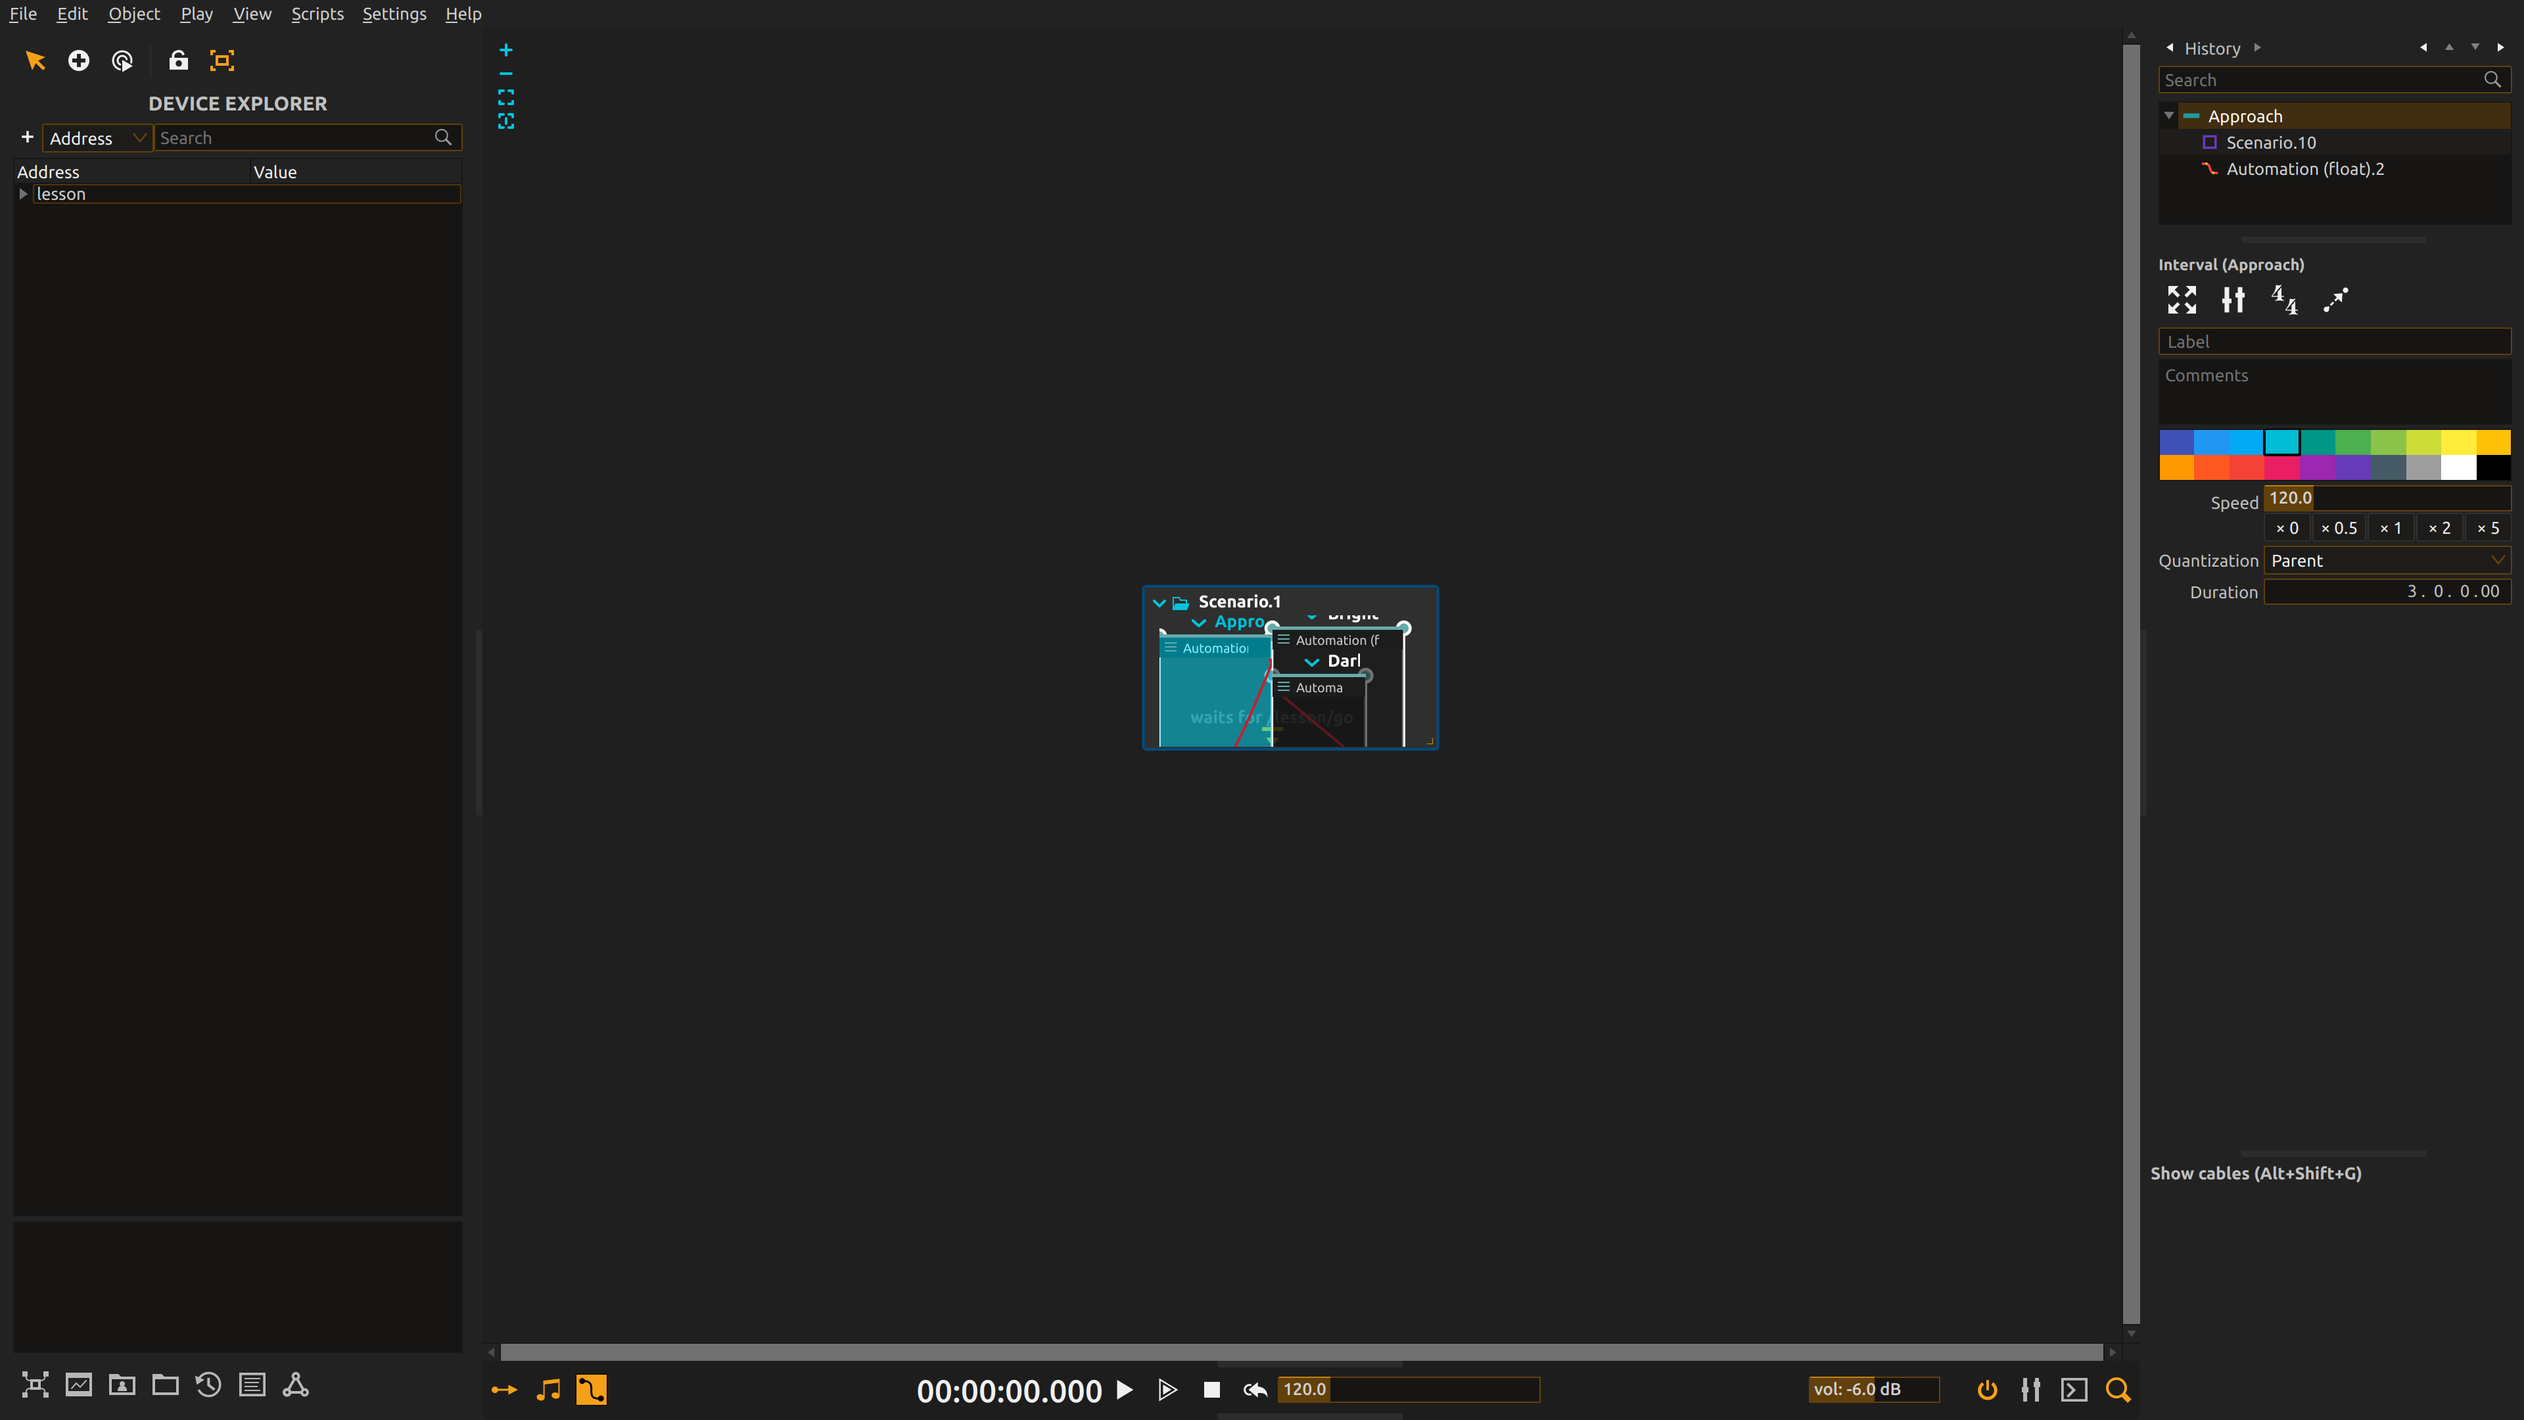
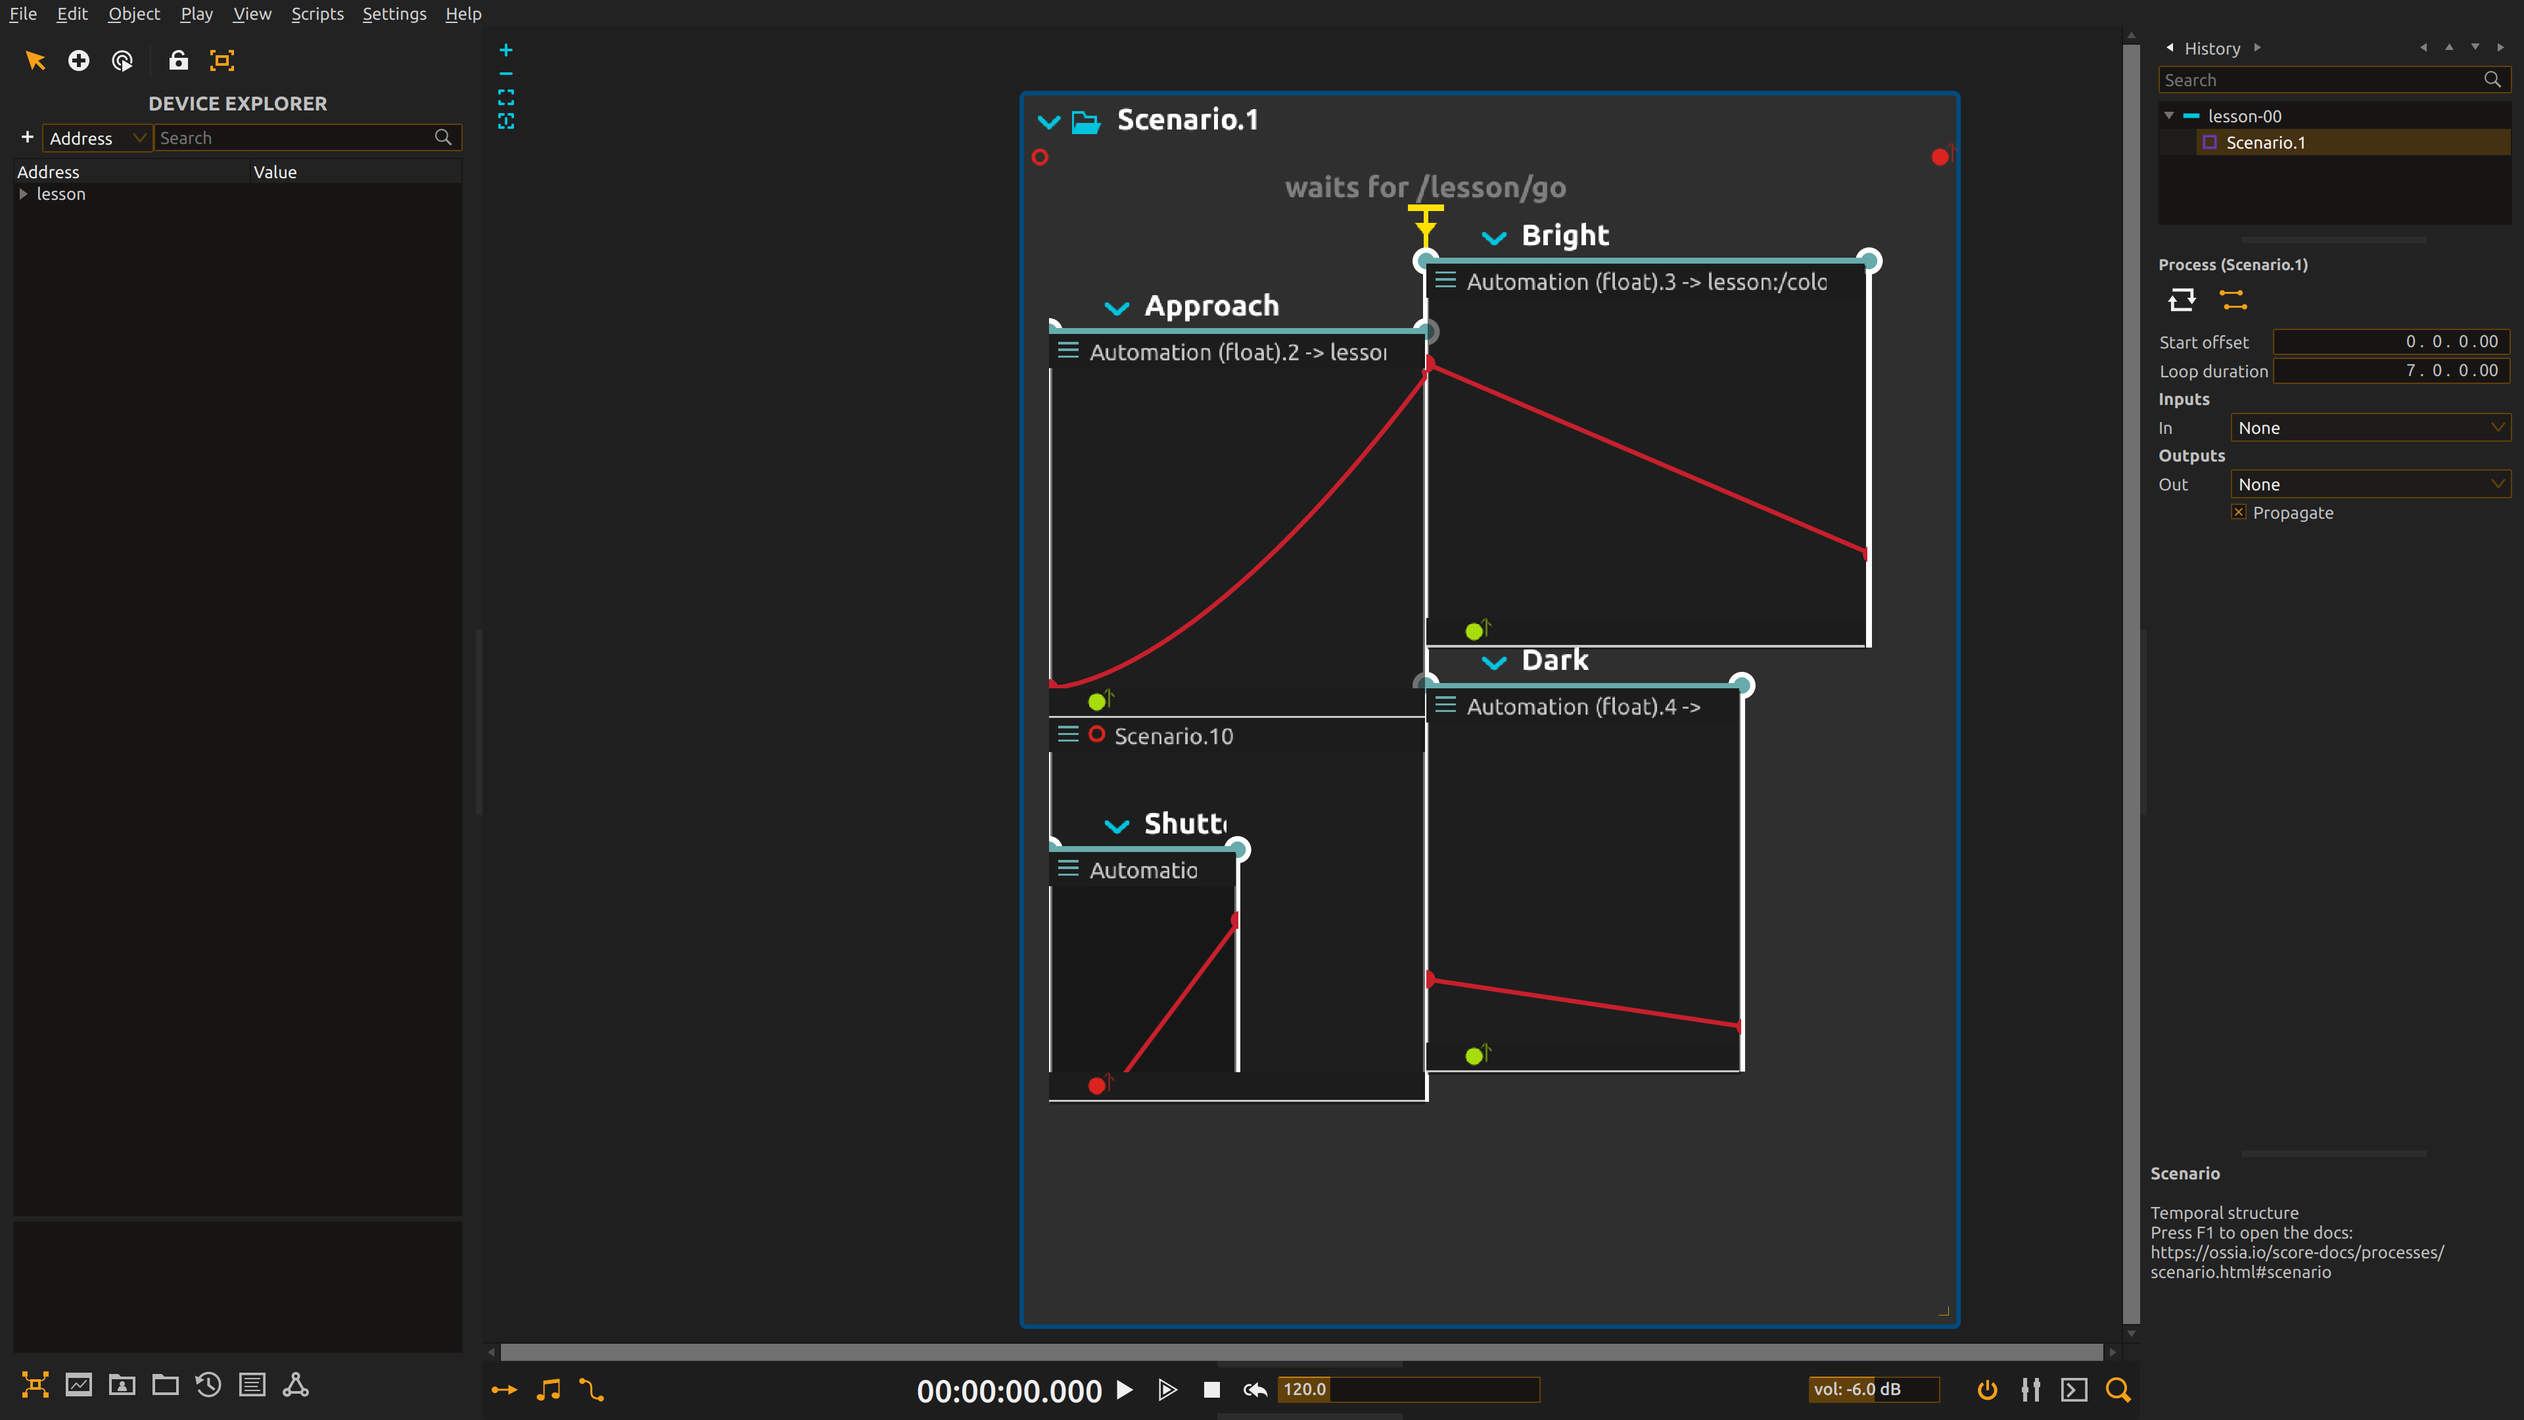
Re-shoot the four figures the crop audit could not fix by cropping, and confirm the Ctrl shortcuts
00-02 (nodal view): the graph is a single node whose labels score itself truncates.
Re-shot from lesson-00.score in nodal mode, zoomed with the slot's + icon, the node
resized by its bottom-right handle and dragged to the top of the editor, so every
nested interval (Approach, Bright, Dark, Scenario.10 with Shutter, the trigger) is
legible. lesson-00-nodal.score turned out unusable: its root has no visible slot.

00-01 (annotated score): re-shot as raw-00-01b.png with the timeline zoomed out
by Ctrl+wheel, so Bright and the root's flexible end are on screen; the seven
badges were remapped by a linear x transform. raw-00-01.png stays because
figures 02-01 and 08-01 crop it.

13-01 (conditioning pipeline): the four-process patch rebuilt on lesson-04.score
by chaining from the library, then the nodal slot's fit icon, which clears the
node titles from the slot's top edge. Badges now point at the titles.

31-01 (Faust editor): same procedure as August plus the fit icon; the editor
window, a top-level X window, moved and shrunk by win.configure to sit between
the node and the inspector; captured 0.8 s after play so the playhead shows.

Two findings worth the note in CLAUDE.md: the nodal view is the FIRST view-mode
button, not the third; and Settings > User interface > Show musical metrics had
been left on, which blanks the time ruler and swaps speed for tempo in the
transport. It is off again, the state most figures were shot in.
[…]

diff --git a/scripts/wheel.py b/scripts/wheel.py
@@ -1,0 +1,20 @@
+#!/usr/bin/env python3
+"""Send mouse-wheel steps at a point, optionally with Ctrl held: wheel.py X Y STEPS [--ctrl]
+STEPS > 0 scrolls down (button 5), < 0 scrolls up (button 4)."""
+import sys, time
+sys.path.insert(0, "/media/Storage/score-learn/scripts")
+import capture
+from Xlib import X
+from Xlib.ext import xtest
+x, y, steps = int(sys.argv[1]), int(sys.argv[2]), int(sys.argv[3])
+ctrl = "--ctrl" in sys.argv
+d = capture.dpy()
+capture.move(d, x, y); d.sync(); time.sleep(0.2)
+button = 5 if steps > 0 else 4
+if ctrl:
+    code = capture.keycode(d, "Control_L"); xtest.fake_input(d, X.KeyPress, code); d.sync(); time.sleep(0.1)
+for _ in range(abs(steps)):
+    xtest.fake_input(d, X.ButtonPress, button); xtest.fake_input(d, X.ButtonRelease, button); d.sync(); time.sleep(0.15)
+if ctrl:
+    xtest.fake_input(d, X.KeyRelease, code); d.sync()
+print(f"wheel {'down' if steps>0 else 'up'} x{abs(steps)} at {x},{y} ctrl={ctrl}")

diff --git a/scripts/ctrldrag.py b/scripts/ctrldrag.py
@@ -1,0 +1,18 @@
+#!/usr/bin/env python3
+"""Drag with Control held: ctrldrag.py X0 Y0 X1 Y1"""
+import sys, time
+sys.path.insert(0, "/media/Storage/score-learn/scripts")
+import capture
+from Xlib import X
+from Xlib.ext import xtest
+x0,y0,x1,y1 = map(int, sys.argv[1:5])
+d = capture.dpy()
+code = capture.keycode(d, "Control_L")
+xtest.fake_input(d, X.KeyPress, code); d.sync(); time.sleep(0.1)
+capture.move(d, x0, y0); d.sync(); time.sleep(0.2)
+xtest.fake_input(d, X.ButtonPress, 1); d.sync(); time.sleep(0.2)
+for i in range(1, 26):
+    capture.move(d, x0 + (x1-x0)*i//25, y0 + (y1-y0)*i//25); d.sync(); time.sleep(0.02)
+time.sleep(0.2); xtest.fake_input(d, X.ButtonRelease, 1); d.sync(); time.sleep(0.1)
+xtest.fake_input(d, X.KeyRelease, code); d.sync()
+print(f"ctrl-dragged {x0},{y0} -> {x1},{y1}")

diff --git a/CLAUDE.md b/CLAUDE.md
@@ -160,7 +160,20 @@ result — that adds the process *and connects it*. This produced figures 11-01 
   window; before that, the same command sometimes captured a dialog and sometimes did not.
 - **The editor reaches about x=3225** in the capture format, wider than the panels
   suggest. A crop stopping at 3020 silently loses a document's last state.
-- **The view-mode buttons** (temporal ↔ nodal) are at roughly x=767, 833, 900, y=2098.
+- **The view-mode buttons** are at roughly x=767, 833, 900, y=2112. The **first** one toggles
+  nodal mode; the third does not, although it highlights. A nested scenario draws as one small
+  node whose labels *score* itself truncates: the nodal slot's `+` icon (768,73) zooms, its
+  fourth icon fits, and the node's bottom-right handle resizes it so the nested intervals become
+  legible; drag it by its title to make room. The first click on an unfocused window only
+  focuses, so click twice.
+- **`Settings > User interface > Show musical metrics` blanks the time ruler** and swaps the
+  transport's speed field for a tempo. It was left on after figure 24-01 and cost a morning;
+  check it before capturing anything with a ruler.
+- **Ctrl+wheel zooms the timeline**, a few percent per step (`scripts/wheel.py X Y STEPS --ctrl`).
+  **`scripts/ctrldrag.py`** drags with Control held; on Linux `Ctrl+Drag` on an interval's end
+  handle scales its automation, a plain drag preserves it, so upstream's `Cmd` is `Ctrl` here.
+- **The script and Faust editors can be moved and resized from outside** with
+  `win.configure(x=, y=, width=, height=)` on the client window named `score`; mutter honours it.
 - **The start screen only appears when score is launched with no document argument**, and
   no menu reopens it.
 - **`pkill -f <pattern>` kills this shell** when the pattern matches the command line.

diff --git a/checks/FIGURES-PENDING.md b/checks/FIGURES-PENDING.md
@@ -207,7 +207,7 @@ Two format notes learned the hard way, both in the per-unit checks files:
 
 ---
 
-## Crop audit, 2026-09-16: re-shoot queue
+## Crop audit, 2026-09-16: re-shoot queue (all four done 2026-09-17)
 
 Every one of the 37 figures was viewed against its lesson text and its raw capture.
 Four specs were corrected in place and re-rendered (`15-01` badge 7 now points at the
@@ -222,7 +222,12 @@ capture, because the fault is in the raw and no crop can recover it:
 | `31-01` Faust | Faust node title clipped at the slot's top edge | same fit before shooting; the code can be typed with `typeinto.py` |
 | `00-01` annotated score | `Bright` runs past the editor's right edge | zoom the document out (or shorten `Bright`) so its end state is on screen |
 
-`00-02` carries a stopgap recrop until then, marked in `figures/00-02.json`.
+All four were re-shot on 2026-09-17 once the session was unlocked; each spec's `_comment` and the
+unit's `checks/` note record the exact procedure. Two findings from that session matter for every
+future capture: **Settings > User interface > Show musical metrics** had been left on (probably for
+figure 24-01), which blanks the time ruler and replaces the transport's speed field with a tempo;
+it is off again, which is the state most figures were shot in. And the nodal view is the **first**
+view-mode button, not the third; the third is a different mode that leaves the timeline in place.
 
 A re-shoot was attempted on 2026-09-16 and stopped at input: launch and capture
 worked, every click was swallowed, and `loginctl` reported the session locked. Three

diff --git a/checks/00-what-score-is.md b/checks/00-what-score-is.md
@@ -44,3 +44,5 @@ node graph and lays it out. That needed an unlocked session.
 - The *score* 3 feature list (GPU video pipeline, C++ live coding, tempo and musical metrics, hierarchical polyrhythms, generalised looping) comes from Celerier and Baltazar, *Networked Performances with Ossia Score*.
 
 - 2026-09-16 crop audit: Figure `00-02` recropped as a stopgap so the whole scenario node is in frame; the raw was captured unfitted, so a re-shoot with the nodal fit icon is queued (`scripts/reshoot_00_02.sh`). Figure `00-01`: `Bright` runs past the editor edge in the raw, so its end state is not visible; a re-shoot at a smaller zoom is queued.
+
+- 2026-09-17: both figures re-shot. `00-01` now comes from `raw-00-01b.png`, the same document zoomed out with Ctrl+wheel (`scripts/wheel.py`) so `Bright` and the root's flexible end are on screen; `raw-00-01.png` stays because 02-01 and 08-01 crop it. `00-02` was re-shot from `lesson-00.score`: nodal mode is the FIRST view-mode button (raw 768,2112; click twice, the first click only focuses), then the nodal slot's + icon (768,73) six times, then the scenario node's bottom-right handle dragged out and the node dragged to the top by its title until every nested interval was legible. `lesson-00-nodal.score` is not usable for this: its root has no visible slot.

diff --git a/HANDOVER.md b/HANDOVER.md
@@ -74,10 +74,11 @@ capstone rubric weights, the ffmpeg continuation bug in 25, a fisheye mapping er
 P6, a stale patch description in 32, and the `Cmd` shortcuts in 03 and 04).
 
 Every figure was viewed against its lesson and its raw. Four specs were corrected and
-re-rendered; four need a re-shoot and are listed at the end of
-`checks/FIGURES-PENDING.md`. The re-shoot attempt stopped at a locked session; the
-capture environment facts it produced are in `CLAUDE.md`, and `scripts/reshoot_00_02.sh`
-runs the first re-shoot as one command once the session is unlocked.
+re-rendered on the 16th; the four that needed a new capture (00-01, 00-02, 13-01, 31-01)
+were re-shot on the 17th once the session was unlocked, and every figure now shows what
+its lesson says it shows. The capture facts learned on the way (Wayland display and auth,
+the first view-mode button being nodal, the musical-metrics setting that blanks the ruler,
+moving editor windows by configure) are in `CLAUDE.md`.
 
 
 **The course text is finished.** All **47 units** are written and pass

diff --git a/checks/04-first-process.md b/checks/04-first-process.md
@@ -24,4 +24,4 @@ Anything marked pending needs synthetic input, which requires an unlocked sessio
 
 - The gestures and modifiers come from the reference page on writing automations. The Cmd+Drag and Cmd+Up bindings are stated there in macOS form; verify the Linux and Windows equivalents before the video is recorded.
 
-- 2026-09-16: `Cmd+↑` and `Cmd+Drag` were normalised to `Ctrl+…`, matching the other 57 shortcuts in the course and Qt's control modifier on Linux. Upstream writes Cmd. Confirm in the pinned build that Ctrl is the modifier here.
+- 2026-09-16: `Cmd+↑` and `Cmd+Drag` were normalised to `Ctrl+…`, matching the other 57 shortcuts in the course and Qt's control modifier on Linux. Upstream writes Cmd. Confirmed in the pinned build on 2026-09-17: the View menu lists Go to parent as Ctrl+Up, and a Ctrl+Drag on an interval's end handle scales the automation while a plain drag preserves its length.

diff --git a/checks/03-interface-and-transport.md b/checks/03-interface-and-transport.md
@@ -24,4 +24,4 @@ Anything marked pending needs synthetic input, which requires an unlocked sessio
 
 - The controls-and-shortcuts 2/5 rating, the lost-panels report, and the accidental-view-entry report all come from the SAT UI/UX study report.
 
-- 2026-09-16: `Cmd+↑` was normalised to `Ctrl+…`, matching the other 57 shortcuts in the course and Qt's control modifier on Linux. Upstream writes Cmd. Confirm in the pinned build that Ctrl is the modifier here.
+- 2026-09-16: `Cmd+↑` was normalised to `Ctrl+…`, matching the other 57 shortcuts in the course and Qt's control modifier on Linux. Upstream writes Cmd. Confirmed in the pinned build on 2026-09-17: the View menu lists Go to parent as Ctrl+Up, and a Ctrl+Drag on an interval's end handle scales the automation while a plain drag preserves its length.

diff --git a/checks/31-faust.md b/checks/31-faust.md
@@ -75,3 +75,5 @@ in `CLAUDE.md` and that cost most of the time on this figure:
    pressing compile.
 
 - 2026-09-16 crop audit: Figure `31-01`: the Faust node title is clipped at the nodal slot top edge in the raw; re-shoot queued in `checks/FIGURES-PENDING.md` (fit the graph before shooting).
+
+- 2026-09-17: `31-01` re-shot with the same procedure as 2026-08-12, plus the nodal slot's fit icon before shooting so the Faust node title is visible. The editor is a top-level X window named `score`; `win.configure(x=1830, y=300, width=1400, height=1450)` moved and shrank it so it sits between the node and the inspector, which the August capture achieved by hiding the left dock instead. The capture was taken 0.8 s after pressing play, since the excerpt ends within a few seconds and the transport rewinds to zero.

diff --git a/checks/13-mapping-and-scaling.md b/checks/13-mapping-and-scaling.md
@@ -33,3 +33,5 @@ Micromap, Multi-choice, Range Filter, Rate Limiter, Repetition Filter, Smooth.
 The smoothing object is named Exp Smoothing.
 
 - 2026-09-16 crop audit: Figure `13-01`: node titles are clipped at the nodal slot top edge in the raw itself, so no crop recovers them; re-shoot queued in `checks/FIGURES-PENDING.md` (rebuild the patch, fit the graph, then shoot).
+
+- 2026-09-17: `13-01` re-shot. Patch rebuilt on `lesson-04.score`: click the automation's slot header to select it, type each name into the process library search with `typeinto.py`, double-click the single result (Calibrator, Range Filter, Mapping curve, Exp Smoothing; each new process is selected, so the next chains after it), then the nodal slot's fourth small icon fits the graph and the titles clear the slot's top edge.
